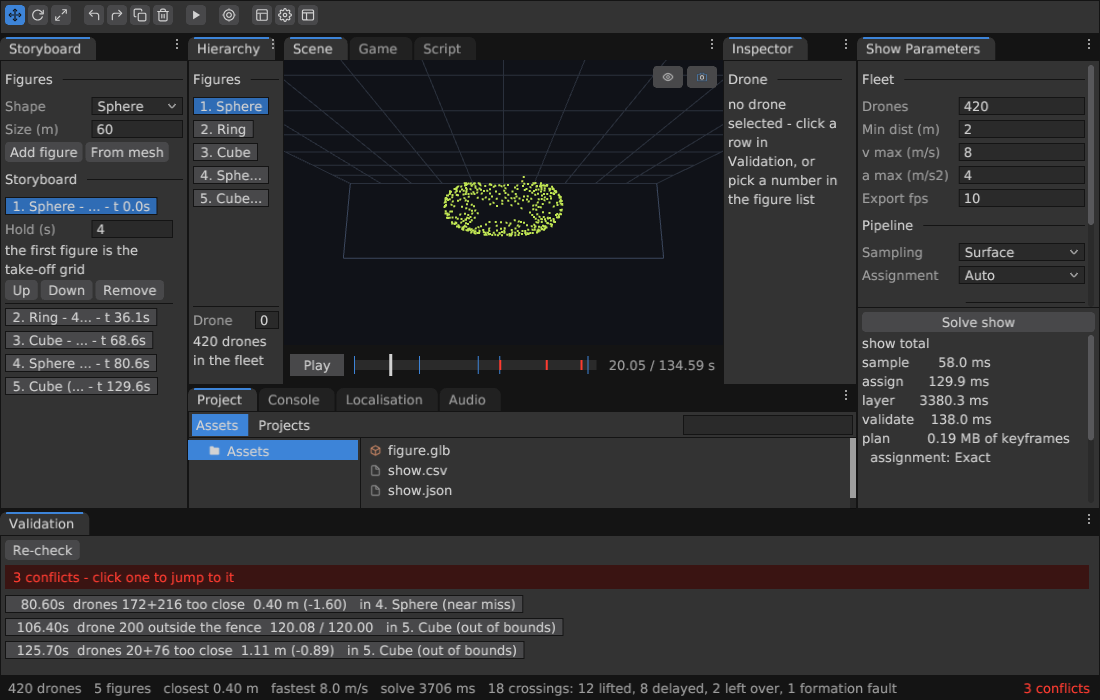
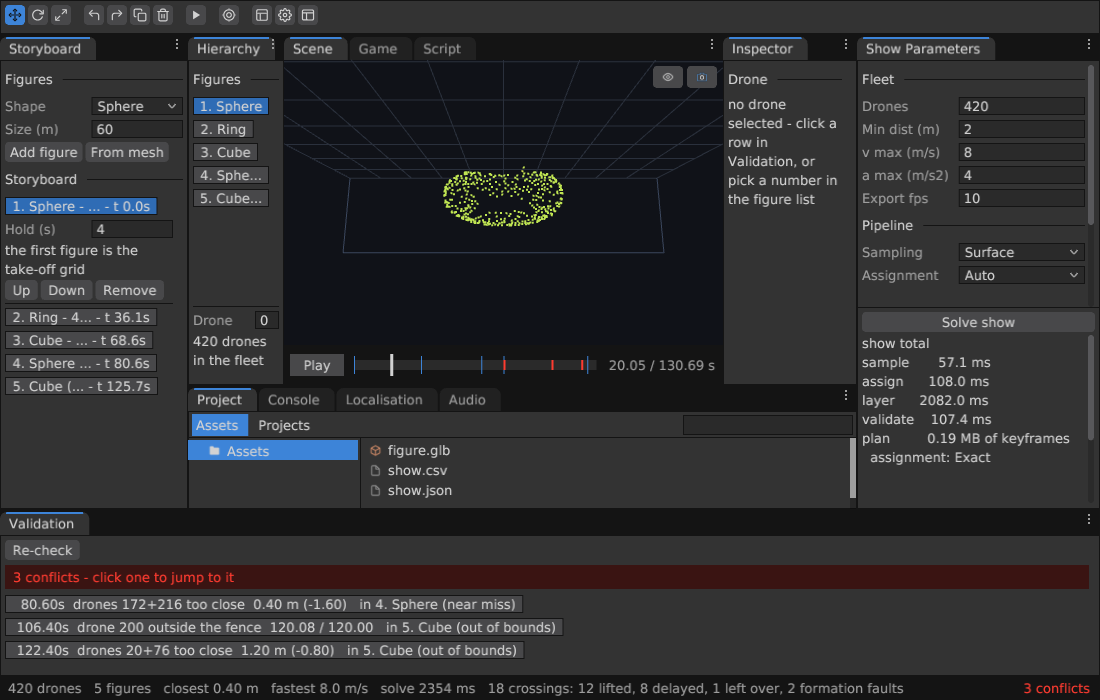
droneshow: a formation fault is measured on the line the plan really flies
A pair the FORMATION parks inside the minimum distance is held to its own
arrival gap - it may not come closer on the way than it already is standing
still. That bar was being asked of a lower bound on the curve, with the
curve-to-polyline chord reserve added on top, and for such a pair that
requirement is unsatisfiable by construction: the pair IS at its arrival gap at
the arrival, so "gap plus reserve" is a number no route can reach.

The consequence was not cosmetic. The pair stayed open through all 32 rounds,
the last resort escalated it every round and failed every round, and the stage
finally answered "transition conflicts could not be separated" for a fault it
was never able to separate - while the route walk, chasing an impossible bar,
pushed the two drones from 1.200 m down to 1.108 m and so made the fault worse
than the formation had made it. Measured on the shot fixture: drones 20 and 76.

So an endpoint-limited pair is now measured with flown_separation(), on the
polyline the plan stores - one key keeps its profile and is the curve itself, a
leg cut into k keys is flown as lines between them - and held to the gap itself,
with no reserve added and none subtracted. The round's classification and the
escalation's bar carry the same rule, from the same pair_goal().

Nothing was loosened: min_distance is untouched, SEP_EPS is untouched, the
ordinary bar (floor + reserve) is untouched, and no test threshold moved.
[…]

diff --git a/src/dai_show_plan.cpp b/src/dai_show_plan.cpp
@@ -426,6 +426,83 @@ float fine_separation(const dai_show_leg &la, const dai_show_point &a0, const da
     return best;
 }
 
+// How close two legs come ON THE LINE THE PLAN REALLY STORES - the flown path,
+// not a bound around it.
+//
+// Everywhere else in this file a pair is judged by min_separation: a lower
+// bound on the CURVE, with the minimum distance plus a chord reserve as its
+// bar, so that the polyline the plan writes out - which cuts the corners of the
+// curve - still clears the floor. That is right for a floor, and it is wrong -
+// unsatisfiable, in fact - for a pair whose bar is its own arrival gap.
+//
+// Two drones that land 1.2 m apart are exactly 1.2 m apart at t_end. Their
+// closest approach IS the arrival. Asking a lower bound to come out above
+// "1.2 m plus the reserve of a detour" is asking for something no route can
+// deliver, and the separator then reports the pair open for ever, escalates it
+// every round and finally hands the show over as unsolvable - for a fault that
+// lives in the formation and that it was never able to fix. Measured on the
+// shot fixture: drones 20 and 76, parked 1.200 m apart by the figure, still
+// open after 32 rounds with the route walk moving them further every time.
+//
+// So an endpoint-limited pair is measured on the thing that flies:
+//
+//   * a leg the plan writes as ONE key keeps its profile, so the flown path is
+//     the curve itself - leg_point is exact for it;
+//   * a leg cut into k keys is flown as straight lines between those keys, and
+//     that is what is interpolated here.
+//
+// Breakpoints of both legs go into the walk, plus POLY_SUB steps in between, so
+// the two eased time laws of a straight pair cannot hide a dip between samples.
+// No slack is added and none is subtracted: this is a measurement of the flown
+// polyline, and the bar it is compared against is the arrival gap itself.
+const int POLY_SUB      = 8;                  // sub-steps between two breakpoints
+const int POLY_MAX_STEP = 2048;               // and the ceiling on the whole walk
+
+Vec3 plan_pos(const dai_show_leg &leg, const dai_show_point &a, const dai_show_point &b,
+              uint32_t keys, float t) {
+    if (t <= leg.t_start) return Vec3{ a.x, a.y, a.z };
+    if (t >= leg.t_end)   return Vec3{ b.x, b.y, b.z };
+    if (keys <= 1) return leg_pos(leg, a, b, t);      // one key: the profile IS the flight
+    const float T = leg.t_end - leg.t_start;
+    const float u = (t - leg.t_start) / T * (float)keys;
+    int   i = (int)u;
+    if (i < 0) i = 0;
+    if (i > (int)keys - 1) i = (int)keys - 1;
+    const float f  = u - (float)i;
+    const float ta = leg.t_start + T * ((float)i / (float)keys);
+    const float tb = leg.t_start + T * ((float)(i + 1) / (float)keys);
+    Vec3 pa = (i == 0) ? Vec3{ a.x, a.y, a.z } : leg_pos(leg, a, b, ta);
+    Vec3 pb = ((uint32_t)(i + 1) >= keys) ? Vec3{ b.x, b.y, b.z } : leg_pos(leg, a, b, tb);
+    return Vec3{ pa.x + (pb.x - pa.x) * f, pa.y + (pb.y - pa.y) * f, pa.z + (pb.z - pa.z) * f };
+}
+
+float flown_separation(const dai_show_leg &la, const dai_show_point &a0, const dai_show_point &a1,
+                       const dai_show_leg &lb, const dai_show_point &b0, const dai_show_point &b1,
+                       const dai_show_settings &s) {
+    const float t0 = std::min(la.t_start, lb.t_start);
+    const float t1 = std::max(la.t_end,   lb.t_end);
+    if (!(t1 > t0)) return len3(Vec3{ a0.x - b0.x, a0.y - b0.y, a0.z - b0.z });
+    const uint32_t ka = daishow::leg_key_count(&la, &s);
+    const uint32_t kb = daishow::leg_key_count(&lb, &s);
+    // One step per key of the denser leg, sub-divided, and never more than the
+    // ceiling: the walk has to be the same on every machine, so the count is a
+    // function of the two legs and of nothing else.
+    uint32_t breaks = (ka > kb ? ka : kb) + 2u;
+    int steps = (int)breaks * POLY_SUB;
+    if (steps > POLY_MAX_STEP) steps = POLY_MAX_STEP;
+    if (steps < 64) steps = 64;
+    float best = 1e30f;
+    Vec3 prev = sub3(plan_pos(la, a0, a1, ka, t0), plan_pos(lb, b0, b1, kb, t0));
+    for (int i = 1; i <= steps; ++i) {
+        float t = t0 + (t1 - t0) * ((float)i / (float)steps);
+        Vec3 cur = sub3(plan_pos(la, a0, a1, ka, t), plan_pos(lb, b0, b1, kb, t));
+        float d = dist_origin_segment(prev, cur);
+        if (d < best) best = d;
+        prev = cur;
+    }
+    return best;
+}
+
 // What a leg really costs in speed and in acceleration.
 //
 // Straight legs have a closed form - the profile says how much faster than the
@@ -1121,6 +1198,13 @@ dai_result dai_show_layer(const dai_show_point *from, const dai_show_point *to, 
             room = std::min(room, droom) - floor_gap;
             if (!(room > 0.0f)) room = 0.0f;
             const float goal = floor_gap + std::min(min_d * ESCALATE_MARGIN, 0.25f * room);
+            // An endpoint-limited pair - one the formation itself parks inside
+            // the floor - is measured on the flown polyline by pair_sep below,
+            // so it neither needs nor can afford the curve-to-polyline reserve:
+            // its bar is the arrival gap it is already at when it lands. Adding
+            // the reserve here is what made such a pair unsolvable by
+            // construction; the round's classification carries the same rule.
+            if (floor_gap < min_d) return goal - SEP_EPS;
             return goal - SEP_EPS
                  + chord_reserve(cand,  src[m], dst[m], *s)
                  + chord_reserve(fixed, src[o], dst[o], *s);
@@ -1133,6 +1217,12 @@ dai_result dai_show_layer(const dai_show_point *from, const dai_show_point *to, 
             const dai_show_leg &la = (m < o) ? cand : fixed;
             const dai_show_leg &lb = (m < o) ? fixed : cand;
             const uint32_t ia = (m < o) ? m : o, ib = (m < o) ? o : m;
+            // The endpoint-limited pair is judged on the line the plan stores,
+            // for the reason given at flown_separation: its closest approach is
+            // its own arrival, and a bound with a reserve in it can never come
+            // out above that.
+            if (pair_goal(m, o) < min_d)
+                return flown_separation(la, src[ia], dst[ia], lb, src[ib], dst[ib], *s);
             float w1 = std::max(gt1, std::max(cand.t_end, fixed.t_end));
             float w0 = std::min(gt0, std::min(cand.t_start, fixed.t_start));
             std::vector<Vec3> pa((size_t)SAMPLES + 1), pb((size_t)SAMPLES + 1);
@@ -1402,11 +1492,25 @@ dai_result dai_show_layer(const dai_show_point *from, const dai_show_point *to, 
             // closer on the way than it already is standing still - and the
             // pair is reported as the formation fault it is instead of as a
             // transition the separator failed to solve. See the top of the file.
+            //
+            // ...and the reserve is NOT added on top of an endpoint gap. The
+            // reserve pays for the difference between the curve this stage
+            // measures and the polyline the plan stores; a pair whose bar is
+            // its own arrival gap is at that gap AT the arrival, so "gap plus
+            // reserve" is a requirement no route can meet, and demanding it
+            // kept such a pair open for ever (see flown_separation above). The
+            // endpoint pair is therefore measured on the flown polyline itself
+            // and held to exactly what it promises: never closer on the way
+            // than it is standing still.
             const float goal = pair_goal(a, b);
             const float slack = reserve[a] + reserve[b];
-            const float bar  = goal  - SEP_EPS + slack;
+            const bool  endpoint_limited = (goal < min_d);
+            const float bar  = endpoint_limited ? (goal - SEP_EPS) : (goal - SEP_EPS + slack);
             const float full = min_d - SEP_EPS + slack;
-            float sep = min_separation(out_legs[a], src[a], dst[a],
+            float sep = endpoint_limited
+                      ? flown_separation(out_legs[a], src[a], dst[a],
+                                         out_legs[b], src[b], dst[b], *s)
+                      : min_separation(out_legs[a], src[a], dst[a],
                                        out_legs[b], src[b], dst[b],
                                        &samples[(size_t)a * (SAMPLES + 1)],
                                        &samples[(size_t)b * (SAMPLES + 1)],

diff --git a/tests/droneshow_cases_plan.cpp b/tests/droneshow_cases_plan.cpp
@@ -1301,6 +1301,109 @@ void case_transition_pair_is_never_endpoint(void) {
 }
 
 // ---------------------------------------------------------------------------
+// [3m] a formation fault whose partner has to fly a DETOUR.
+//
+// [3i] proves a formation fault is named rather than blamed on the transition -
+// with two straight legs. This is the same fault where it used to be fatal: one
+// of the two drones is forced onto a lifted route by the traffic around it, and
+// a lifted route carries a chord reserve, because the plan stores a curve as a
+// polyline and the polyline cuts the corners.
+//
+// The separator used to add that reserve on top of every bar, INCLUDING the bar
+// of a pair whose bar is its own arrival gap - so the pair was asked to stay
+// "1.2 m plus the reserve" apart while its formation parks it at exactly 1.2 m.
+// No route can do that. The pair stayed open, every round escalated it, and the
+// stage finally answered "transition conflicts could not be separated" for a
+// fault it could never have separated. Measured on the shot fixture: drones 20
+// and 76, 1.200 m apart by the figure, still open after 32 rounds - and closing
+// to 1.108 m on the way, so the transition was also making the fault WORSE.
+//
+// The fix is to measure such a pair on the line the plan really stores instead
+// of on a bound with a reserve in it, and to hold it to the gap itself. What
+// this case asserts is the whole of that: the partner really is detoured (or
+// the fixture proves nothing), the pair is counted as one formation fault and
+// zero unresolved transitions, and the flown distance never falls below the
+// 1.2 m the formation gives it.
+void case_endpoint_fault_with_detour(void) {
+    show_section("[3m] a formation fault next to a detour is still not the transition's");
+
+    dai_show_settings s = plan_settings(2.0f, 8.0f, 4.0f);
+    const uint32_t n = 6;
+    std::vector<dai_show_point> from(n), to(n);
+    std::vector<uint32_t>       perm(n);
+    for (uint32_t i = 0; i < n; ++i) {
+        perm[i] = i;
+        from[i] = pt(6.0f * (float)i, 50.0f, 0.0f, 200, 200, 200);
+        to[i]   = from[i];                          // four of them stay put
+    }
+    // Two travellers along the line the other four are parked on: each has to
+    // get past three standing drones, which is what buys them a lifted route.
+    to[0] = from[5];
+    // ...and the fault: the traveller coming the other way lands 1.2 m from the
+    // drone parked at x = 6, inside the 2 m floor. The formation's doing.
+    const float PLANTED = 1.2f;
+    to[5] = pt(from[1].x + PLANTED, 50.0f, 0.0f, 200, 200, 200);
+
+    dai_show_transition tr = dai_show_transition_default();
+    tr.duration_s = 12.0f;
+
+    std::vector<dai_show_leg> legs(n);
+    dai_show_layer_stats st;
+    dai_result r = dai_show_layer(from.data(), to.data(), n, perm.data(), &tr, &s,
+                                  0.0f, legs.data(), &st);
+
+    // The fixture checks itself: without a lift on one of the two faulted legs
+    // this case is [3i] again and proves nothing about the reserve.
+    CHECK(legs[5].rise_frac > 0.0f || legs[1].rise_frac > 0.0f,
+          "neither leg of the faulted pair was lifted (rise %.2f / %.2f) - this "
+          "case only bites when the pair carries a chord reserve",
+          (double)legs[5].rise_frac, (double)legs[1].rise_frac);
+    CHECK(std::fabs(dist(to[1], to[5]) - PLANTED) < 1e-3f,
+          "the fixture plants %.3f m and its own formation says %.3f m",
+          (double)PLANTED, (double)dist(to[1], to[5]));
+
+    CHECK(st.unresolved == 0,
+          "%u pairs blamed on the transition - a formation fault beside a detour "
+          "is still the formation's", (unsigned)st.unresolved);
+    CHECK(st.endpoint_pairs == 1,
+          "the %.2f m formation fault was counted %u times, expected once",
+          (double)PLANTED, (unsigned)st.endpoint_pairs);
+    CHECK(r == DAI_SHOW_LAYER_FORMATION_FAULT,
+          "the separator answered %d instead of naming the formation fault", (int)r);
+
+    // And the promise it can keep: the pair never closes below the gap the
+    // formation itself leaves, and the rest of the fleet keeps the full floor.
+    float worst_pair = 1e30f, worst_rest = 1e30f, t_pair = 0.0f, t_rest = 0.0f;
+    uint32_t ra = 0, rb = 0;
+    std::vector<dai_show_point> now(n);
+    const int STEPS = 4000;
+    float t0 = legs[0].t_start, t1 = legs[0].t_end;
+    for (uint32_t i = 0; i < n; ++i) {
+        t0 = std::fmin(t0, legs[i].t_start);
+        t1 = std::fmax(t1, legs[i].t_end);
+    }
+    for (int k = 0; k <= STEPS; ++k) {
+        float t = t0 + (t1 - t0) * ((float)k / (float)STEPS);
+        for (uint32_t i = 0; i < n; ++i)
+            daishow::leg_point(&legs[i], &from[i], &to[perm[i]], t, &now[i]);
+        for (uint32_t i = 0; i < n; ++i)
+            for (uint32_t j = i + 1; j < n; ++j) {
+                float d = dist(now[i], now[j]);
+                if (i == 1 && j == 5) { if (d < worst_pair) { worst_pair = d; t_pair = t; } }
+                else if (d < worst_rest) { worst_rest = d; t_rest = t; ra = i; rb = j; }
+            }
+    }
+    CHECK(worst_pair >= PLANTED - 1e-3f,
+          "the faulted pair closes to %.3f m at t = %.2f s and its formation only "
+          "puts it %.3f m apart - the transition made the fault worse",
+          (double)worst_pair, (double)t_pair, (double)PLANTED);
+    CHECK(worst_rest >= s.min_distance_m - 1e-3f,
+          "%u and %u come %.3f m apart at t = %.2f s while the floor is %.3f m",
+          (unsigned)ra, (unsigned)rb, (double)worst_rest, (double)t_rest,
+          (double)s.min_distance_m);
+}
+
+// ---------------------------------------------------------------------------
 // [3h] the leg that is longer than the grid.
 //
 // The separator indexes each leg into a uniform grid, and a grid has a limit
@@ -1381,6 +1484,7 @@ int show_cases_plan(void) {
     case_dense_formation();
     case_many_formation_faults();
     case_transition_pair_is_never_endpoint();
+    case_endpoint_fault_with_detour();
     case_long_leg();
     return g_show_fail - before;
 }

diff --git a/src/dai_show_ui.cpp b/src/dai_show_ui.cpp
@@ -853,7 +853,39 @@ void dai_show_ui_parameters(dai_show_ui *u, dai_ui *ui, float x, float y, float 
         if (report_h < pitch * 3.0f) report_h = pitch * 3.0f;
     }
     const float settings_h = avail - report_h;
+    // The lower edge of the settings region, in the coordinates the layout
+    // cursor uses. Every row below is measured against it and is drawn only if
+    // the WHOLE of it fits: a number box sliced lengthwise by the edge of its
+    // own region is the defect this panel was rebuilt for, and it is worse on a
+    // field than on a label - half a value box still looks editable. A row that
+    // does not fit keeps its place in the layout, so the wheel brings it in
+    // whole and the region's scroll extent stays right.
+    const float settings_bottom = view_y + settings_h;
     dai_ui_scroll_begin(ui, "showparams", settings_h);
+    auto num_row = [&](const char *label, float *v, float step, float lo, float hi,
+                       const char *id) -> int {
+        float rh = widget_row(ui);
+        if (!fits(ui, settings_bottom, rh)) {
+            dai_ui_advance(ui, dai_ui_panel_width(ui), rh);
+            return 0;
+        }
+        return dai_ui_num_field(ui, label, v, step, lo, hi, id);
+    };
+    auto section_row = [&](const char *title) {
+        float rh = dai_ui_text_height(ui) + 12.0f;
+        if (!fits(ui, settings_bottom, rh)) { dai_ui_advance(ui, 0.0f, rh); return; }
+        dai_ui_section(ui, title);
+    };
+    auto choice_row = [&](const char *label, int *value, const char *const *items,
+                          int count, int as_strip) {
+        float rh = widget_row(ui);
+        if (!fits(ui, settings_bottom, rh)) {
+            dai_ui_advance(ui, dai_ui_panel_width(ui), rh);
+            return;
+        }
+        if (as_strip) seg_row(ui, label, value, items, count);
+        else          dai_ui_option(ui, label, value, items, count);
+    };
     // One column for the whole panel rather than one per section: a label
     // column that changes width halfway down reads as two panels stacked.
     const char *const LABELS[] = { "Drones", "Min dist (m)", "v max (m/s)", "a max (m/s2)",
@@ -861,30 +893,32 @@ void dai_show_ui_parameters(dai_show_ui *u, dai_ui *ui, float x, float y, float 
                                    "Fence Z (m)", "Ceiling (m)", "Ground (m)", "Take-off (m)" };
     float label_was = fit_labels(ui, LABELS, 12);
 
-    dai_ui_section(ui, "Fleet");
+    section_row("Fleet");
     float count = (float)u->s.drone_count;
     int changed = 0;
-    changed |= dai_ui_num_field(ui, "Drones", &count, 1.0f, 1.0f, 100000.0f, "showcount");
+    changed |= num_row("Drones", &count, 1.0f, 1.0f, 100000.0f, "showcount");
     u->s.drone_count = (uint32_t)(count + 0.5f);
-    changed |= dai_ui_num_field(ui, "Min dist (m)", &u->s.min_distance_m, 0.1f, 0.5f, 100.0f, "showmind");
-    changed |= dai_ui_num_field(ui, "v max (m/s)", &u->s.v_max_ms, 0.25f, 0.5f, 60.0f, "showvmax");
-    changed |= dai_ui_num_field(ui, "a max (m/s2)", &u->s.a_max_ms2, 0.25f, 0.25f, 40.0f, "showamax");
+    changed |= num_row("Min dist (m)", &u->s.min_distance_m, 0.1f, 0.5f, 100.0f, "showmind");
+    changed |= num_row("v max (m/s)", &u->s.v_max_ms, 0.25f, 0.5f, 60.0f, "showvmax");
+    changed |= num_row("a max (m/s2)", &u->s.a_max_ms2, 0.25f, 0.25f, 40.0f, "showamax");
     float fps = (float)u->s.fps;
-    changed |= dai_ui_num_field(ui, "Export fps", &fps, 1.0f, 1.0f, 120.0f, "showfps");
+    changed |= num_row("Export fps", &fps, 1.0f, 1.0f, 120.0f, "showfps");
     u->s.fps = (int)(fps + 0.5f);
 
-    dai_ui_section(ui, "Pipeline");
-    seg_row(ui, "Sampling", &u->sample_mode, SAMPLE_MODES, 3);
-    dai_ui_option(ui, "Assignment", &u->assign_method, ASSIGN_METHODS, 4);
+    section_row("Pipeline");
+    choice_row("Sampling", &u->sample_mode, SAMPLE_MODES, 3, 1);
+    choice_row("Assignment", &u->assign_method, ASSIGN_METHODS, 4, 0);
+    // A hover tooltip, not a row: it takes no space in the layout, so it needs
+    // no room made for it and cannot be cut by the edge of the region.
     dai_ui_help(ui, "Auto solves exactly up to 2000 drones and switches to the "
                     "clustered auction above - the storyboard shows what ran.");
 
-    dai_ui_section(ui, "Safety volume");
-    changed |= dai_ui_num_field(ui, "Fence X (m)", &u->s.fence_half_x, 1.0f, 0.0f, 5000.0f, "showfx");
-    changed |= dai_ui_num_field(ui, "Fence Z (m)", &u->s.fence_half_z, 1.0f, 0.0f, 5000.0f, "showfz");
-    changed |= dai_ui_num_field(ui, "Ceiling (m)", &u->s.fence_top_m, 1.0f, 0.0f, 3000.0f, "showftop");
-    changed |= dai_ui_num_field(ui, "Ground (m)", &u->s.min_ground_m, 0.5f, 0.0f, 200.0f, "showgnd");
-    changed |= dai_ui_num_field(ui, "Take-off (m)", &u->s.takeoff_alt_m, 1.0f, 0.0f, 500.0f, "showtoff");
+    section_row("Safety volume");
+    changed |= num_row("Fence X (m)", &u->s.fence_half_x, 1.0f, 0.0f, 5000.0f, "showfx");
+    changed |= num_row("Fence Z (m)", &u->s.fence_half_z, 1.0f, 0.0f, 5000.0f, "showfz");
+    changed |= num_row("Ceiling (m)", &u->s.fence_top_m, 1.0f, 0.0f, 3000.0f, "showftop");
+    changed |= num_row("Ground (m)", &u->s.min_ground_m, 0.5f, 0.0f, 200.0f, "showgnd");
+    changed |= num_row("Take-off (m)", &u->s.takeoff_alt_m, 1.0f, 0.0f, 500.0f, "showtoff");
 
     if (changed) dai_show_set_settings(u->sh, &u->s);
 
